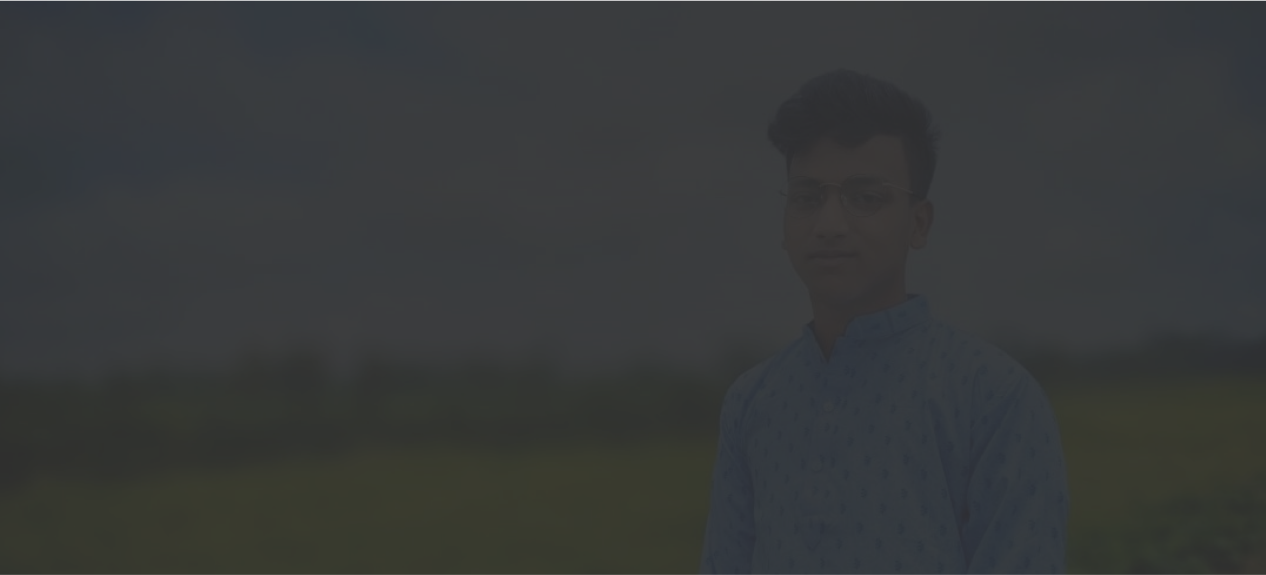
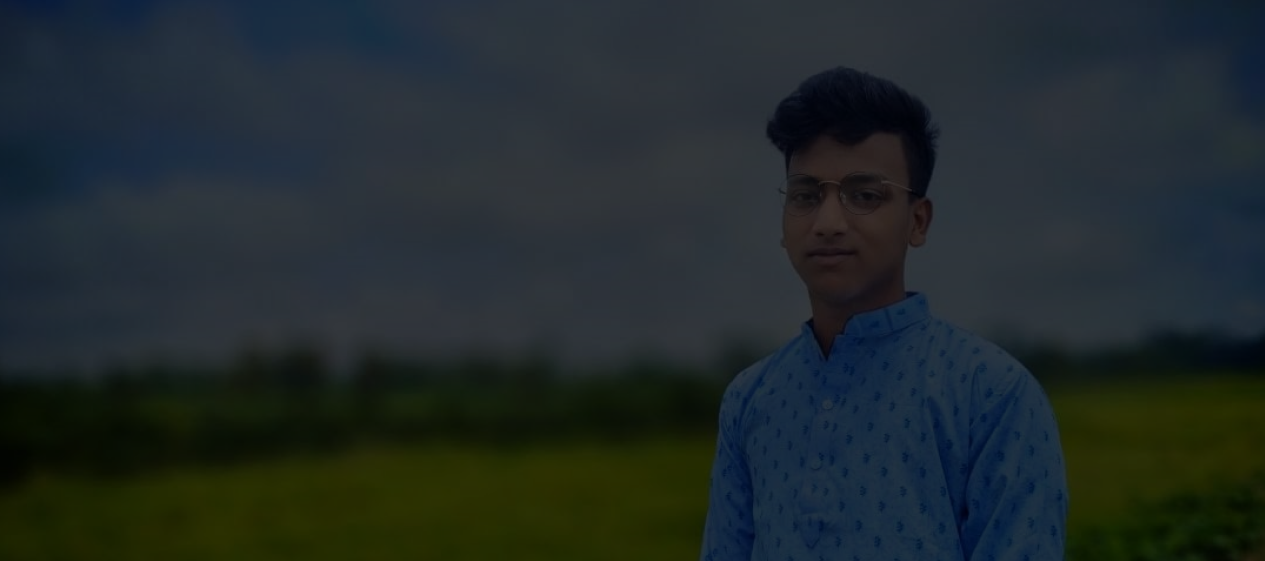
background change

diff --git a/index.html b/index.html
@@ -105,7 +105,7 @@
 		<!-- Start Hero   
 		============================================= -->
 		<div id="home" class="hero-section hero-section-bg" style="
-		background-image: url(storage/frontend/image/IMsANALbxLLRmeTyi3WzslBxOVVHxrT56zXOcesF.jpg);">
+		background-image: url(storage/frontend/image/IMsANALbxLLRmeTyi3WzslBxOVVHxrT56zXOcesF.PNG);">
 			<div class="line_wrap"> <!-- line animation --> 
 				<div class="line_item"></div>
 				<div class="line_item"></div>
@@ -152,6 +152,7 @@
 						</div>	<!-- hero left text end --> 
                         
                         
+
                         
 
 						<div class="col-md-5 col-sm-12 mt-0"><!-- col-6 --> 
